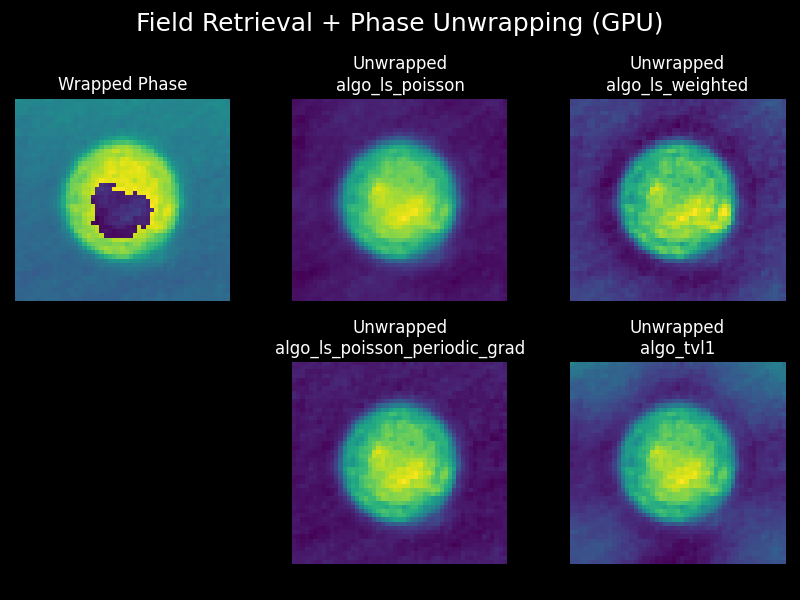
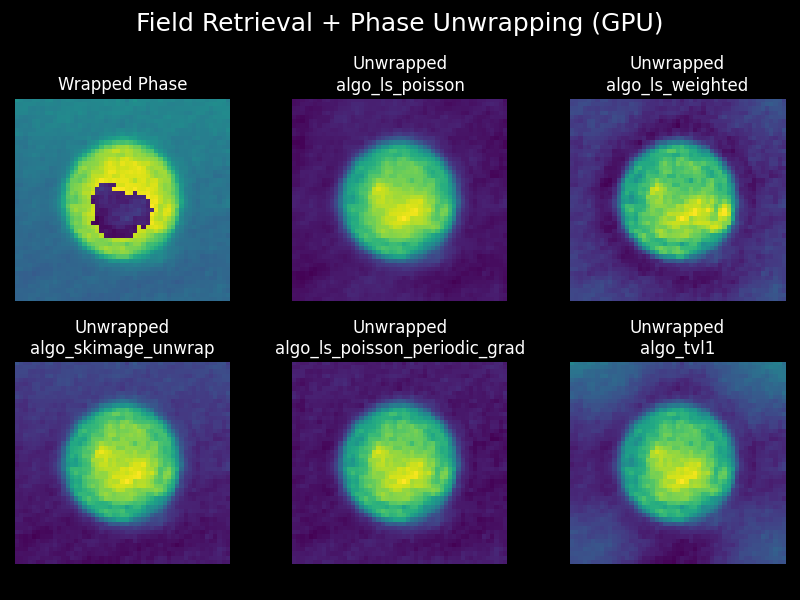
docs, ref: refactor the examples so they use internal skimage and finish stepbystep

Changed region(s): [[0.0, 0.54, 0.3125, 0.96]]

diff --git a/examples/poisson_ls_walkthrough.py b/examples/poisson_ls_walkthrough.py
@@ -14,6 +14,7 @@ excellent "Two-Dimensional Phase Unwrapping Problem" guide.
 import numpy as np
 import matplotlib.pyplot as plt
 from mpl_toolkits.mplot3d import Axes3D
+from typing import Tuple
 
 import unwrap_phase_gpu as upg
 from unwrap_phase_gpu.algorithms.ls_poisson_periodic_grad import (
@@ -22,13 +23,31 @@ from unwrap_phase_gpu.algorithms.ls_poisson_periodic_grad import (
     divergence_stack,
     poisson_solve_fft_stack,
 )
+from unwrap_phase_gpu.algorithms._plane_utils import restore_mean_plane
 
 upg.set_ndarray_backend('numpy')
 xp = upg.get_ndarray_backend()
 
 # load/create the example data, perhaps Fig 9 for good example, and Fig 13 as
 # difficult example
-phase_wrapped = xp.ones(shape=(10, 512, 512), dtype=xp.float32)  #  todo:change
+def _generate_phase(nrx: int = 512, nry: int = 512)\
+        -> Tuple[np.ndarray, np.ndarray, np.ndarray]:
+    """Create the continuous phase image f(x, y) = 20*exp(-0.25*(x^2+y^2)) + 2x + y."""
+    tx = np.linspace(-3.0, 3.0, nrx)
+    ty = np.linspace(-3.0, 3.0, nry)
+    x, y = np.meshgrid(tx, ty)
+    image = 20.0 * np.exp(-0.25 * (x**2 + y**2)) + 2.0 * x + y
+    return x, y, image
+
+
+def _wrap_phase(image: np.ndarray) -> np.ndarray:
+    """Wrap phase to [-pi, pi] using angle of complex exponential."""
+    return np.angle(np.exp(1j * image))
+
+
+x, y, image = _generate_phase()
+arr = _wrap_phase(image)
+phase_wrapped = np.repeat(arr[None, ...], repeats=10, axis=0)
 
 # the `algo_ls_poisson_periodic_grad` is broken up into the following steps:
 #    initial dimensionality check
@@ -38,38 +57,74 @@ phase_wrapped = xp.ones(shape=(10, 512, 512), dtype=xp.float32)  #  todo:change
 #    phi = poisson_solve_fft_stack(rhs)
 #    phase inversion
 
+# Compute forward finite differences of the wrapped phase.
+# Then wrap those gradients back into [-pi, pi) so they remain a valid
+# representation of wrapped phase changes.
 gx1, gy1 = wrapped_gradients_stack(phase_wrapped)
+# Enforce periodic boundary conditions on the wrapped gradients so that the
+# edges match up. This makes the subsequent FFT-based Poisson solve consistent
+# with a periodic domain.
 gx2, gy2 = enforce_periodic_gradients_stack(gx1, gy1)
+# Take the divergence of those periodic wrapped gradients; this produces the
+# right-hand side for the Poisson equation whose solution is the unwrapped phase.
 rhs = divergence_stack(gx2, gy2)
+# Solve the Poisson equation in the Fourier domain (batched over the stack);
+# this yields an unwrapped phase up to a linear ramp.
 phi = poisson_solve_fft_stack(rhs)
-# invert in this case
+# Negate to match the sign convention used by the wrapped-gradient computation
+# so that gradients of the solution align with the original wrapped gradients.
 phi *= -1
+phi_restored = restore_mean_plane(phi, phase_wrapped)
 
 # plotting
+fontsize = 12
+nrows, ncols = 4, 2
+fig = plt.figure(figsize=(8, 12))
 
-nrows, ncols = 6, 2
-fig = plt.figure(figsize=(6, 12))
+ax1 = fig.add_subplot(nrows, ncols, 1)
+ax1.set_title("Wrapped Phase Example", fontsize=fontsize)
+im1 = ax1.imshow(phase_wrapped[1])
+fig.colorbar(im1, ax=ax1, fraction=0.046, pad=0.04)
 
-ax1 = fig.add_subplot(nrows, ncols, 1, projection='3d')
-ax1.imshow(phase_wrapped[1])
-
-ax2 = fig.add_subplot(nrows, ncols, 2)
-ax2.imshow(phase_wrapped[1])
+ax2 = fig.add_subplot(nrows, ncols, 2, projection='3d')
+ax2.set_title("Wrapped Phase Example 3D proj", fontsize=fontsize)
+surf2 = ax2.plot_surface(x, y, phase_wrapped[1], cmap="viridis", linewidth=0, antialiased=True)
+fig.colorbar(surf2, ax=ax2, fraction=0.046, pad=0.04, shrink=0.6)
 
 ax3 = fig.add_subplot(nrows, ncols, 3)
-ax3.imshow(gx1[1])
+ax3.set_title("Wrapped Gradients + Per. Grad. (x)", fontsize=fontsize)
+im3 = ax3.imshow(gx2[1])
+fig.colorbar(im3, ax=ax3, fraction=0.046, pad=0.04)
 
 ax4 = fig.add_subplot(nrows, ncols, 4)
-ax4.imshow(gy1[1])
+ax4.set_title("Wrapped Gradients + Per. Grad. (y)", fontsize=fontsize)
+im4 = ax4.imshow(gy2[1])
+fig.colorbar(im4, ax=ax4, fraction=0.046, pad=0.04)
 
 ax5 = fig.add_subplot(nrows, ncols, 5)
-ax5.imshow(gx2[1])
+ax5.set_title("Poisson RHS", fontsize=fontsize)
+im5 = ax5.imshow(rhs[1])
+fig.colorbar(im5, ax=ax5, fraction=0.046, pad=0.04)
 
 ax6 = fig.add_subplot(nrows, ncols, 6)
-ax6.imshow(gy2[1])
+ax6.set_title("Unwrapped phase (with invertion)", fontsize=fontsize)
+im6 = ax6.imshow(phi[1])
+fig.colorbar(im6, ax=ax6, fraction=0.046, pad=0.04)
 
-for ax in fig.axes:
-    ax.set_axis_off()
+ax7 = fig.add_subplot(nrows, ncols, 7)
+ax7.set_title("Unwrapped phase (restore)", fontsize=fontsize)
+im7 = ax7.imshow(phi_restored[1])
+fig.colorbar(im7, ax=ax7, fraction=0.046, pad=0.04)
+
+ax8 = fig.add_subplot(nrows, ncols, 8, projection='3d')
+ax8.set_title("Unwrapped phase (restore) 3D proj", fontsize=fontsize)
+surf8 = ax8.plot_surface(x, y, phi_restored[1], cmap="viridis", linewidth=0, antialiased=True)
+fig.colorbar(surf8, ax=ax8, fraction=0.046, pad=0.04, shrink=0.6)
+
+for ax in [ax1, ax2, ax3, ax4, ax5, ax6, ax7, ax8]:
+    ax.set_xticks([])
+    ax.set_yticks([])
 
 plt.tight_layout()
+plt.savefig("poisson_ls_walkthrough.png")
 plt.show()

diff --git a/examples/compare_cpu_gpu.py b/examples/compare_cpu_gpu.py
@@ -14,7 +14,6 @@ from pathlib import Path
 
 import matplotlib.pyplot as plt
 import numpy as np
-from skimage.restoration import unwrap_phase as sk_unwrap
 
 import qpretrieve
 import unwrap_phase_gpu as upg
@@ -42,6 +41,10 @@ def _stack_phase(arr: np.ndarray) -> np.ndarray:
 
 def time_cpu_pipeline(raw: dict[str, np.ndarray], repeats: int = 3):
     qpretrieve.set_ndarray_backend("numpy")
+    try:
+        algo = upg.algos_available()["algo_skimage_unwrap"]
+    except Exception:
+        return None
     times = []
     for _ in range(repeats):
         start = time.perf_counter()
@@ -50,7 +53,7 @@ def time_cpu_pipeline(raw: dict[str, np.ndarray], repeats: int = 3):
         holo.run_pipeline(filter_name="disk", filter_size=1 / 2, scale_to_filter=True)
         bg.process_like(holo)
         phase_wrp = np.asarray(holo.phase - bg.phase, dtype=np.float32)
-        sk_unwrap(phase_wrp)
+        algo(phase_wrp)
         times.append((time.perf_counter() - start) * 1000.0)
     return float(np.mean(times)), float(np.std(times))
 
@@ -102,12 +105,20 @@ def time_gpu_pipeline(raw: dict[str, np.ndarray], repeats: int = 3):
 def main():
     raw = _load_raw_numpy()
 
-    cpu_mean, cpu_std = time_cpu_pipeline(raw)
+    cpu = time_cpu_pipeline(raw)
     gpu = time_gpu_pipeline(raw)
 
-    labels = ["CPU skimage", "GPU ls_poisson"]
-    means = [cpu_mean, gpu[0] if gpu else None]
-    stds = [cpu_std, gpu[1] if gpu else None]
+    labels = []
+    means = []
+    stds = []
+    if cpu:
+        labels.append("CPU skimage")
+        means.append(cpu[0])
+        stds.append(cpu[1])
+    if gpu:
+        labels.append("GPU ls_poisson")
+        means.append(gpu[0])
+        stds.append(gpu[1])
 
     plt.style.use("dark_background")
     fig, ax = plt.subplots(figsize=(6, 4), facecolor='#181C24')

diff --git a/examples/gpu_field_retr_phase_unwrapping.py b/examples/gpu_field_retr_phase_unwrapping.py
@@ -25,6 +25,11 @@ phase_wrapped = xp.asarray(holo.phase - bg.phase).astype(xp.float32)
 outputs = {}
 for algo_name, algo in upg.algos_available().items():
     outputs[algo_name] = algo(phase_wrapped)
+skimage_out = outputs.get("algo_skimage_unwrap", None)
+if skimage_out is not None:
+    outputs_no_skimage = {k: v for k, v in outputs.items() if k != "algo_skimage_unwrap"}
+else:
+    outputs_no_skimage = outputs
 
 # plot the wrapped and unwrapped phases
 plt.style.use("dark_background")
@@ -35,7 +40,14 @@ axes = axes.flatten(order="F")
 axes[0].imshow(phase_wrapped.get()[0])
 axes[0].set_title("Wrapped Phase")
 
-for i, (algo_name, arr) in enumerate(outputs.items(), start=2):
+if skimage_out is not None:
+    axes[1].imshow(skimage_out.get()[0])
+    axes[1].set_title("Unwrapped\nalgo_skimage_unwrap")
+else:
+    axes[1].text(0.5, 0.5, "skimage missing", ha="center", va="center")
+    axes[1].set_title("Unwrapped\nalgo_skimage_unwrap")
+
+for i, (algo_name, arr) in enumerate(outputs_no_skimage.items(), start=2):
     ax = axes[i]
     ax.imshow(arr.get()[0])
     ax.set_title(f"Unwrapped\n{algo_name}")
@@ -44,5 +56,5 @@ for ax in axes:
     ax.set_axis_off()
 
 plt.tight_layout(w_pad=4.5)
-# plt.savefig("gpu_field_retr_phase_unwrapping.png")
-plt.show()
+plt.savefig("gpu_field_retr_phase_unwrapping.png")
+# plt.show()

diff --git a/examples/unwrapping_simulation.py b/examples/unwrapping_simulation.py
@@ -58,11 +58,11 @@ def _unwrap_cols_then_rows(image_wrapped: np.ndarray) -> np.ndarray:
 def _unwrap_2d(image_wrapped: np.ndarray) -> np.ndarray | None:
     """Optional 2D unwrap using skimage (as a stand‑in for MATLAB SRNCP)."""
     try:
-        from skimage.restoration import unwrap_phase
+        algo = upg.algos_available()["algo_skimage_unwrap"]
     except Exception as exc:  # pragma: no cover - optional dependency
         warnings.warn(f"skimage not available, skipping 2D unwrap: {exc}")
         return None
-    return unwrap_phase(image_wrapped)
+    return algo(image_wrapped)
 
 
 def _plot_intensity(